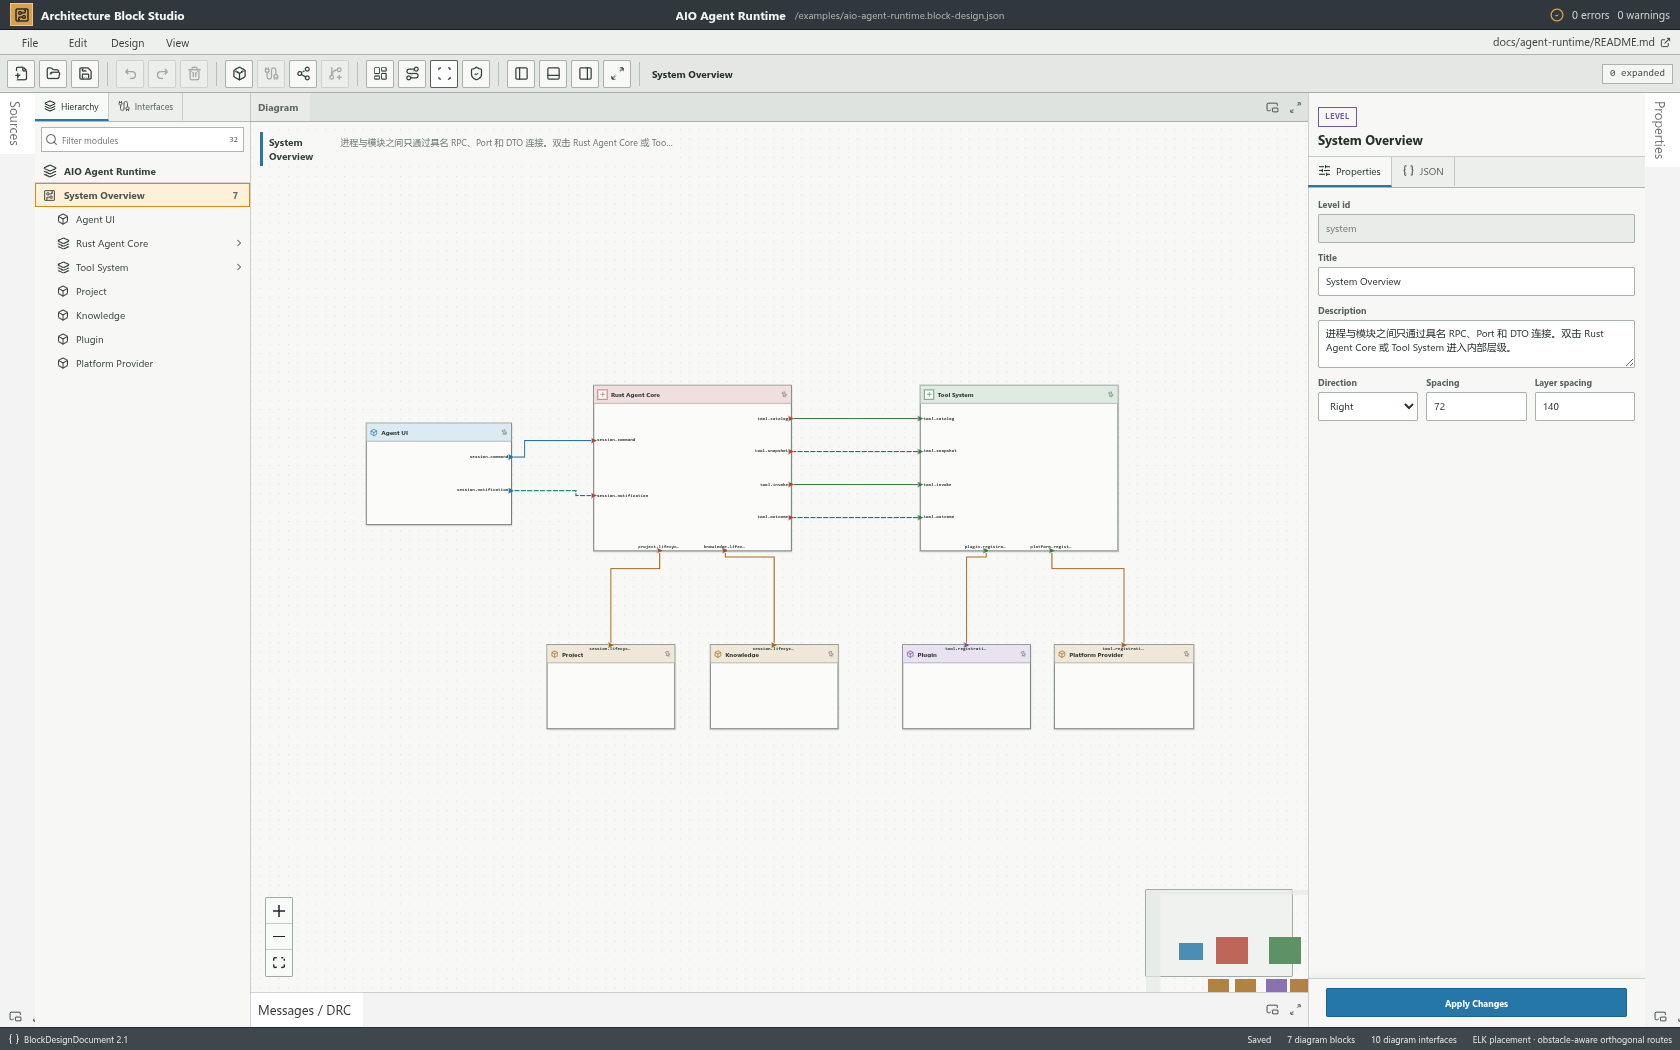
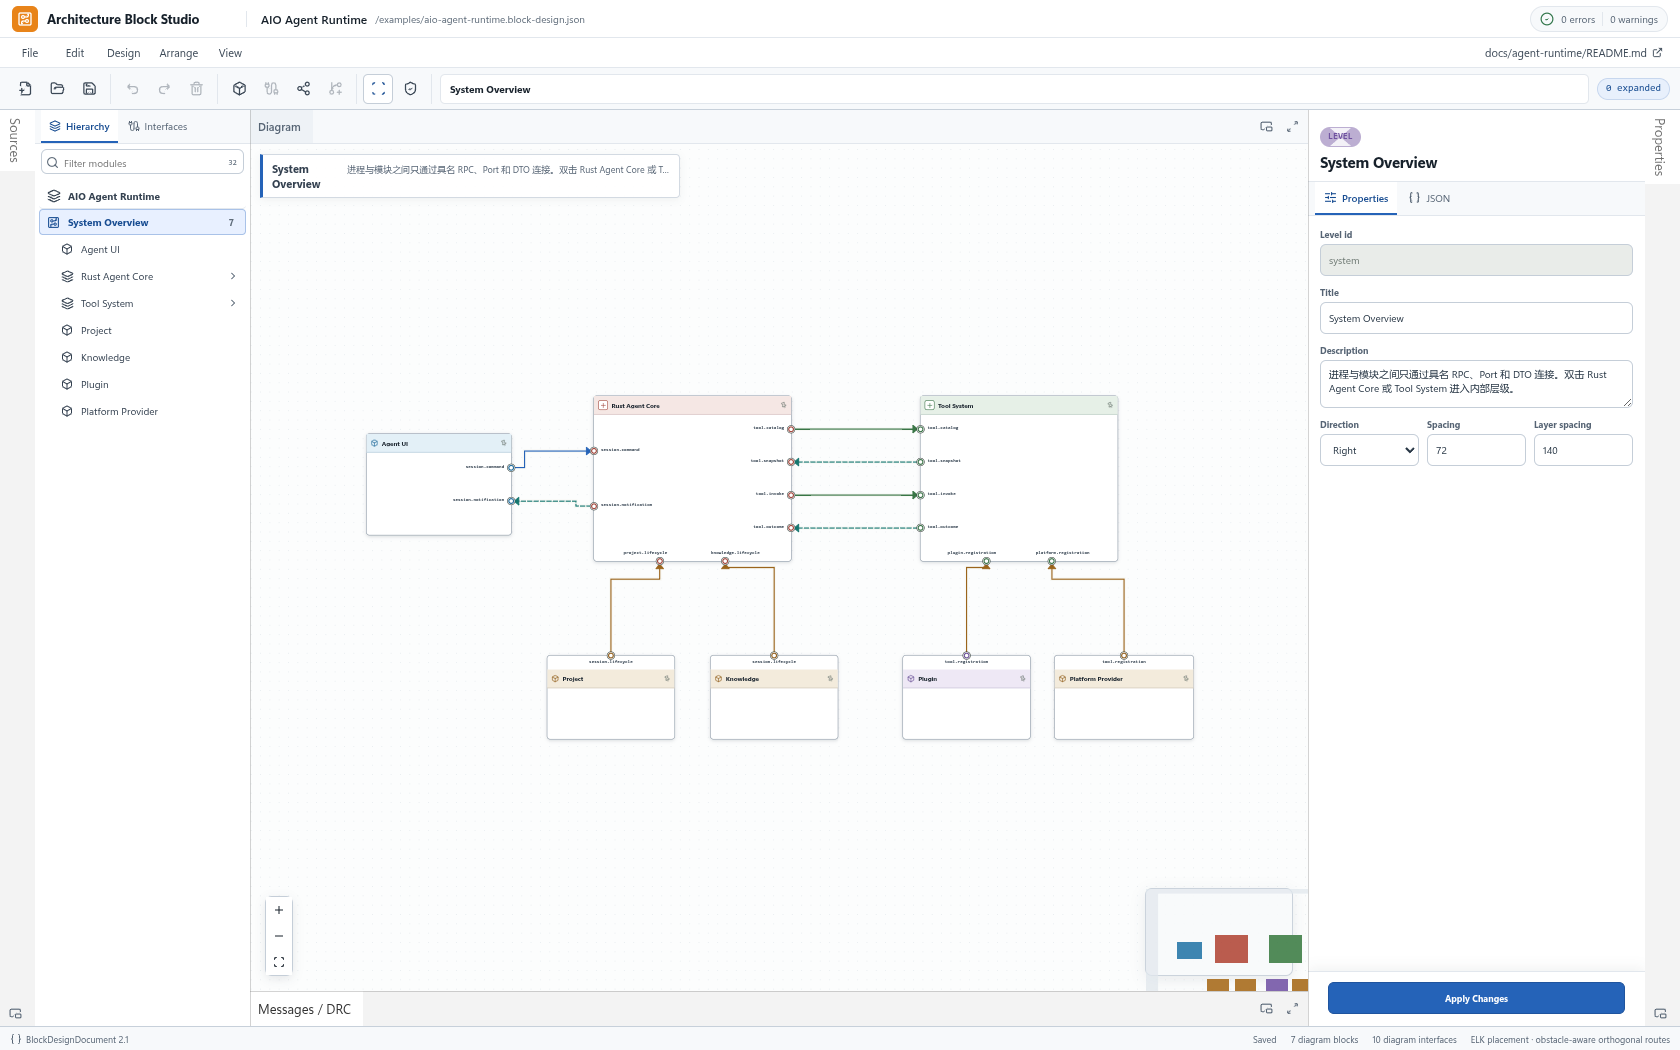
docs: complete iteration 70 product review

diff --git a/README.md b/README.md
@@ -37,6 +37,7 @@ Architecture Block Studio 将这些问题变成可阅读、可编辑、可校验
 - 缩放到系统总览时只保留模块标题、端口名和线路，放大后自动恢复 Owner、摘要、类型等完整细节。
 - 选中模块即可从四边或四角调整尺寸；端口和线路实时跟随，结果进入同一份 JSON、Undo / Redo 与保存链。
 - 移动或调整模块时自动显示边缘、中心与同宽 / 同高辅助线；按住 Alt 可临时关闭吸附，画布不会擅自跳回全图视角。
+- 使用普通点击、Shift / Ctrl / Cmd 与左键框选建立多选；成组移动、六向对齐与水平 / 垂直等距分布都只产生一次可撤销操作。
 - 选中连线后拖动正交线段，手动路由随 JSON 保存，也可随时恢复自动布线。
 - 画布不显示线中标签；端口承担局部识别，点击连线后由 Inspector 展示完整合同。
 - 通过 Undo / Redo、事务性加载和 dirty 状态保护编辑过程。
@@ -77,7 +78,7 @@ Architecture Block Studio 将这些问题变成可阅读、可编辑、可校验
 
 ![统一命令面板](docs/screenshots/command-palette.png)
 
-菜单获得焦点后，可以直接输入 **F / E / D / V** 定位 File、Edit、Design 或 View；菜单展开后，输入命令首字母会跳到下一个同首字母项并支持环绕。例如在 Design 中重复按 **A** 可依次检查 Add Module、Add Port、Add Interface，用 **C** 直达 Create Child Design。暂不可用的命令仍可由方向键或首字母聚焦，菜单会直接说明成立条件；Enter、Space 和鼠标点击都不会误执行。工具栏图标在 hover 或键盘 focus 时显示同一命令的名称、快捷键和禁用原因，按 Esc 即可收起。
+菜单获得焦点后，可以直接输入 **F / E / D / A / V** 定位 File、Edit、Design、Arrange 或 View；菜单展开后，输入命令首字母会跳到下一个同首字母项并支持环绕。例如在 Design 中重复按 **A** 可依次检查 Add Module、Add Port、Add Interface，用 **C** 直达 Create Child Design；多选模块后可在 Arrange 中完成对齐与分布。暂不可用的命令仍可由方向键或首字母聚焦，菜单会直接说明成立条件；Enter、Space 和鼠标点击都不会误执行。工具栏图标在 hover 或键盘 focus 时显示同一命令的名称、快捷键和禁用原因，按 Esc 即可收起。
 
 ![工具栏命令名称与成立条件提示](docs/screenshots/command-tooltip.png)
 
